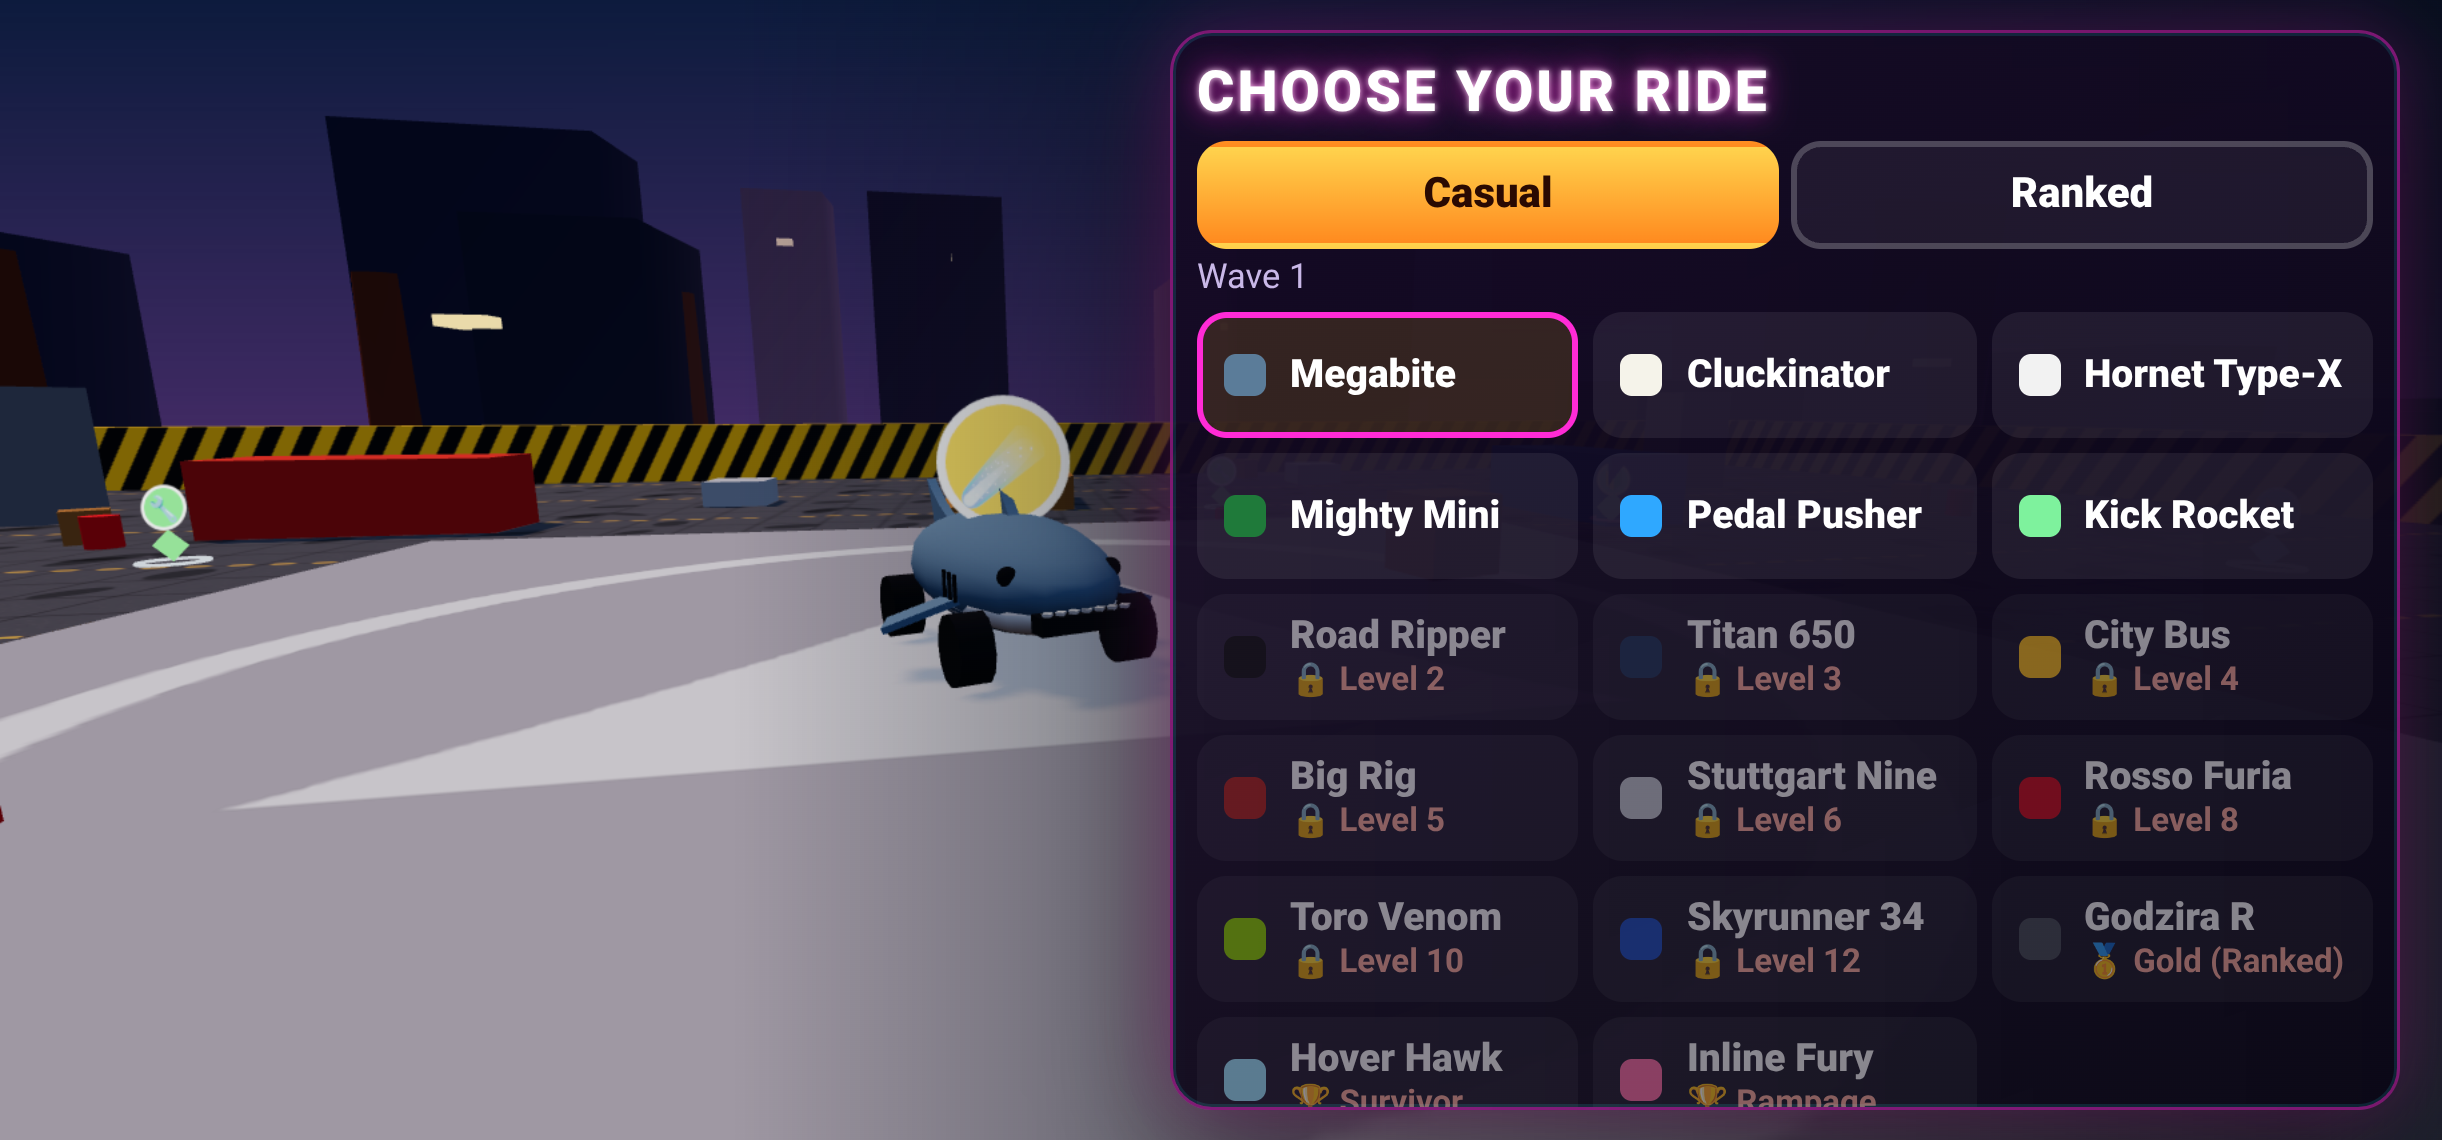
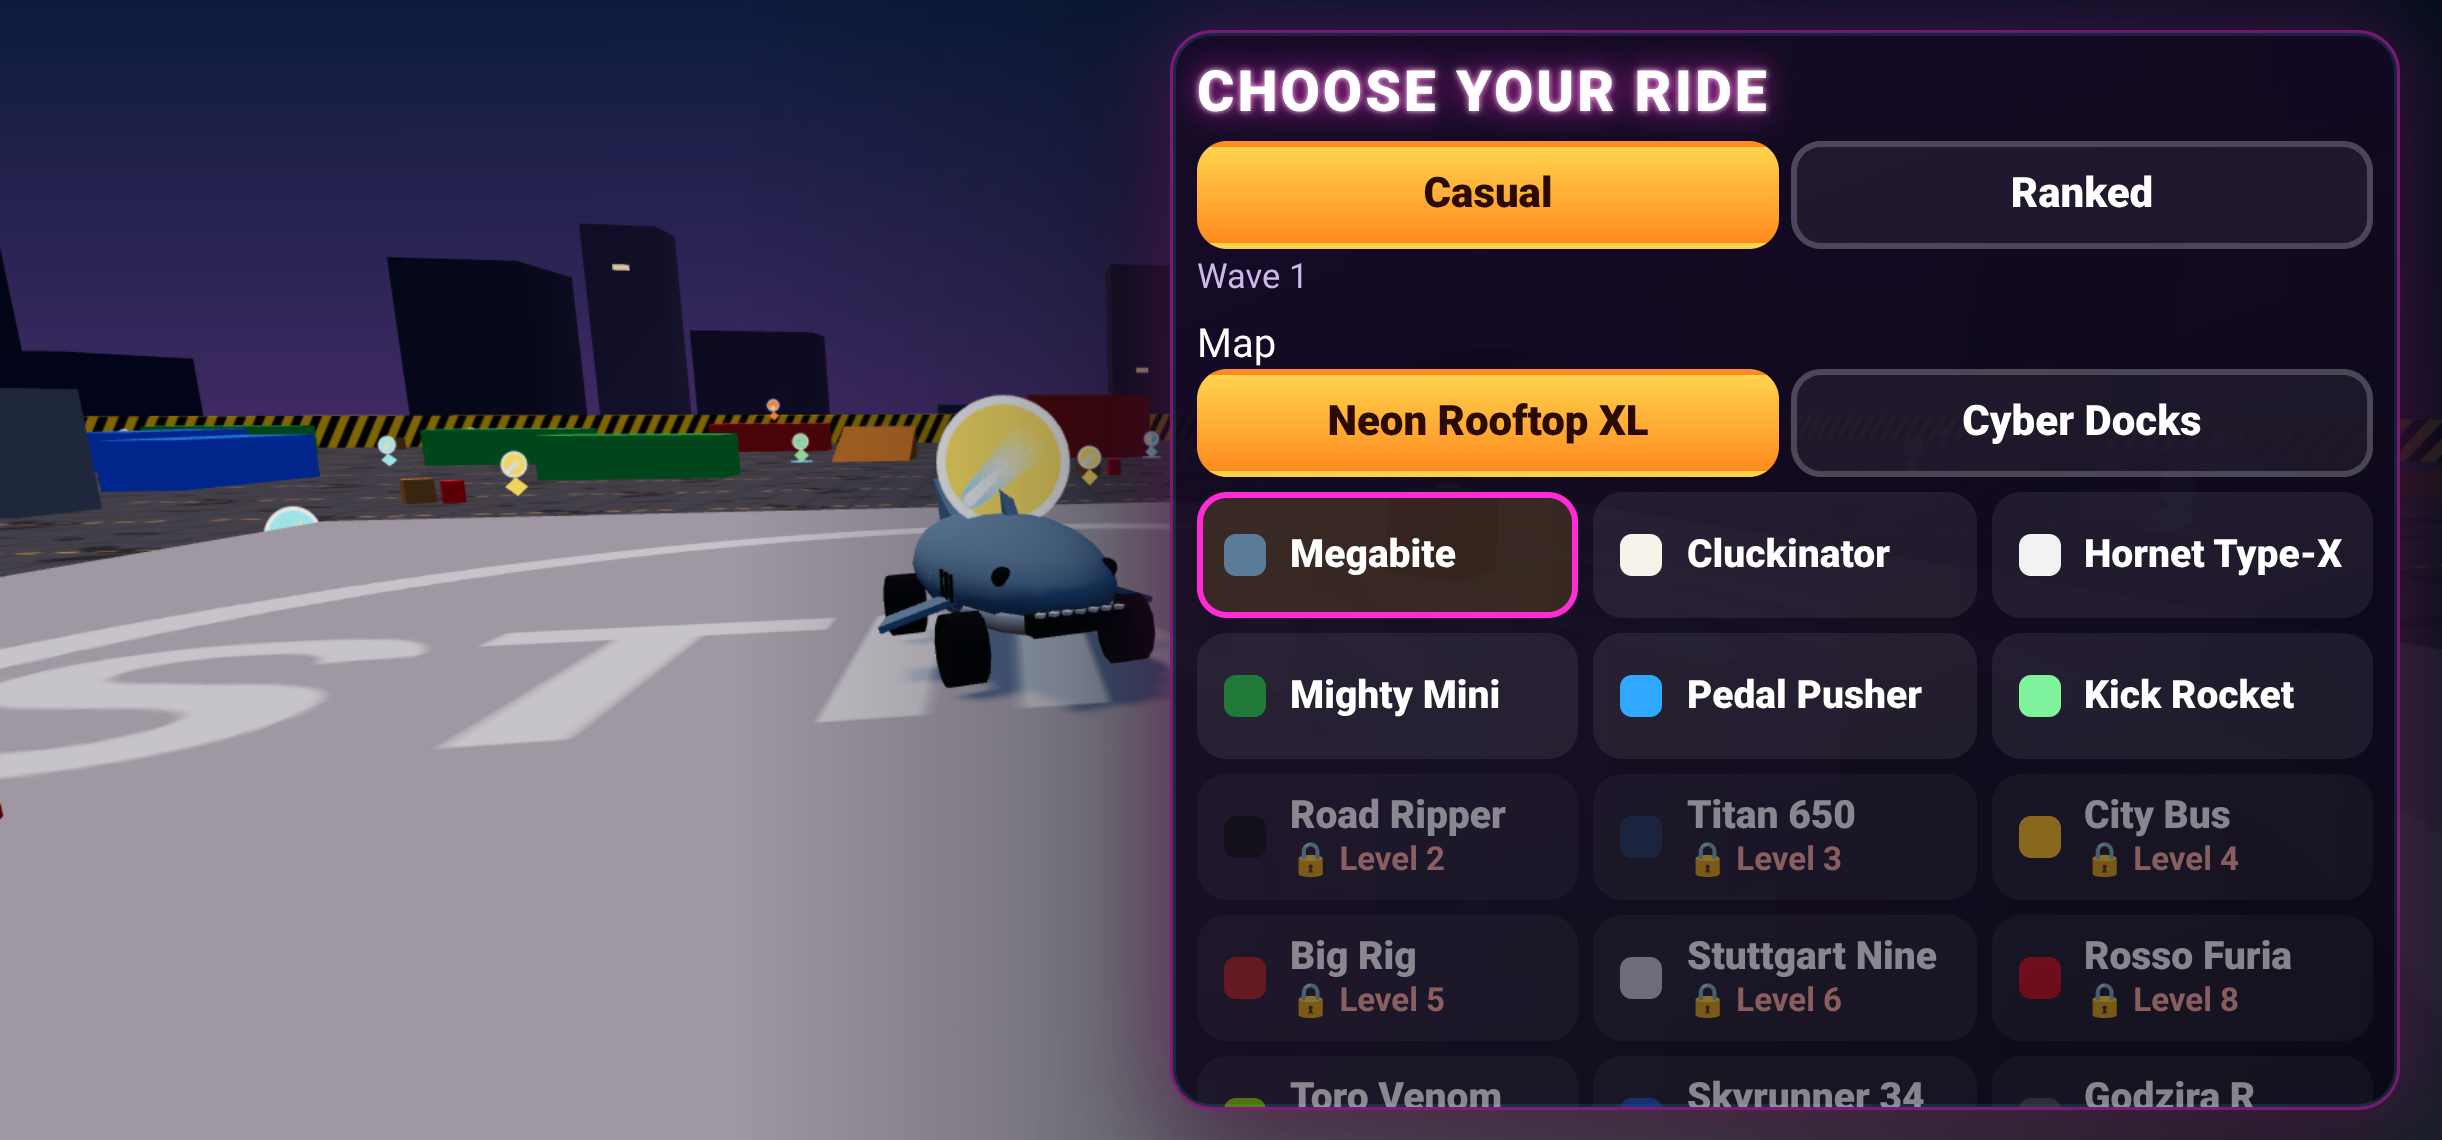
Mega radius 40 for bigger maps, pad help placement, refreshed screenshots

diff --git a/game.js b/game.js
@@ -1591,9 +1591,9 @@ function megaAttack(c) {
 }
 function updMegas(dt) {
   for (let i = G.megas.length - 1; i >= 0; i--) { const m = G.megas[i]; m.t -= dt; if (m.t > 0) continue; G.megas.splice(i, 1);
-    for (const o of G.cars) { if (o === m.c || !o.alive) continue; const dx = o.pos.x - m.x, dz = o.pos.z - m.z, d = Math.hypot(dx, dz) || 1; if (d > 30) continue; const f = 1 - .5 * d / 30;
+    for (const o of G.cars) { if (o === m.c || !o.alive) continue; const dx = o.pos.x - m.x, dz = o.pos.z - m.z, d = Math.hypot(dx, dz) || 1; if (d > 40) continue; const f = 1 - .5 * d / 40;
       damage(o, 140 * f * m.c.dmgMul, m.c); if (!o.alive) continue; o.vx += dx / d * 30 * f / o.st.masse; o.vz += dz / d * 30 * f / o.st.masse; o.vy = 14 * f; o.onGround = false; o.pos.y += .05; }
-    for (const p of props) if (p.on && Math.hypot(p.x - m.x, p.z - m.z) < 30) breakProp(p, m.c); }
+    for (const p of props) if (p.on && Math.hypot(p.x - m.x, p.z - m.z) < 40) breakProp(p, m.c); }
 }
 function updMegaFx(dt) {
   for (let i = megaFx.length - 1; i >= 0; i--) { const f = megaFx[i]; f.t += dt; if (f.t < 0) { f.m.visible = false; continue; } f.m.visible = true; const k = f.t / f.life;
